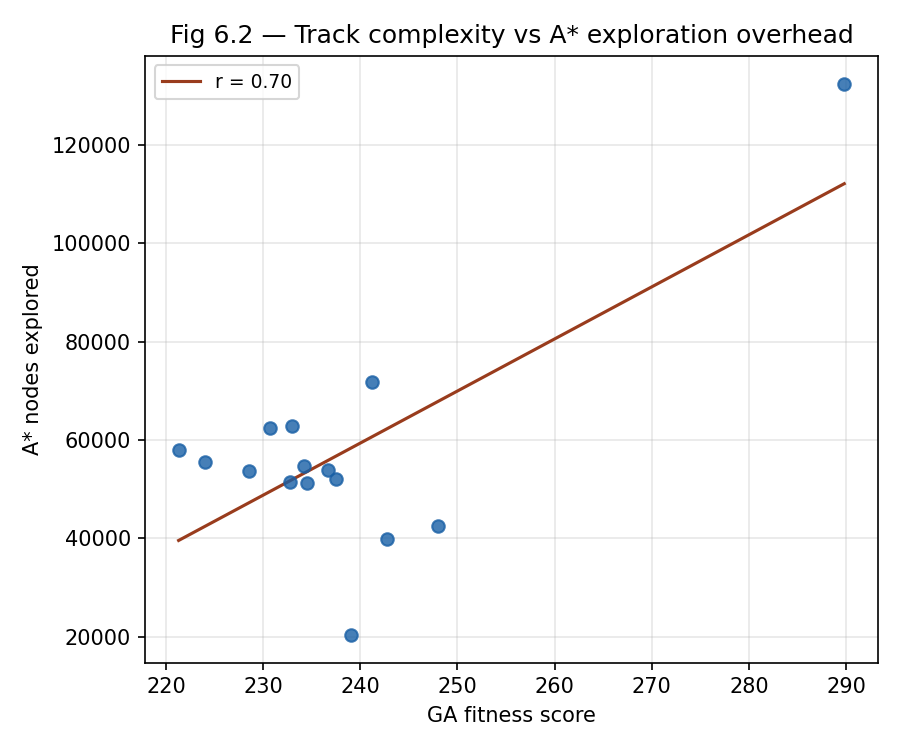
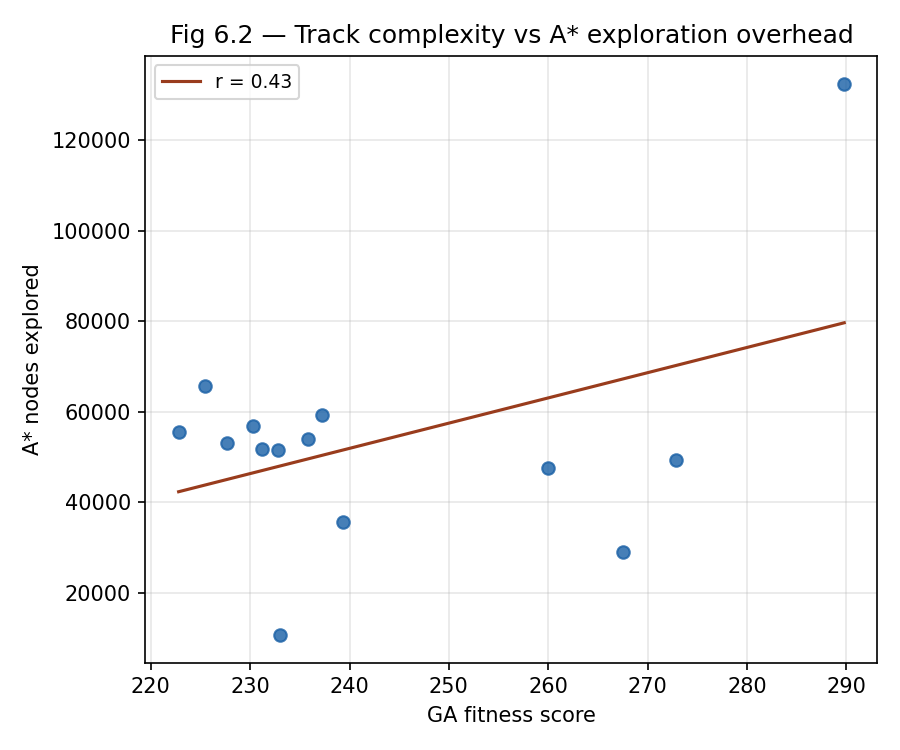
fix: increased heuristic divisor, A* never overestimates + unit testing

diff --git a/solver.py b/solver.py
@@ -90,14 +90,12 @@ class AStarSolver:
     def heuristic(self, state) -> float:
         """
         Admissible Manhattan heuristic for a single-target search.
-        Dividing by 3.0 ensures h(n) <= h*(n) because the maximum speed
-        achievable from rest in 1 turn is ±2, giving a minimum of ⌈d/3⌉
-        turns to cover distance d from a standing start.
+        Dividing by 10 ensures h(n) <= h*(n)
         """
         if not self.current_goals:
             return 0.0
         return min(abs(state.x - gx) + abs(state.y - gy)
-                   for gx, gy in self.current_goals) / 3.0
+                   for gx, gy in self.current_goals) / 10.0
 
     # ── Original single-target searches (unchanged — used by BFS pipeline) ────
 
